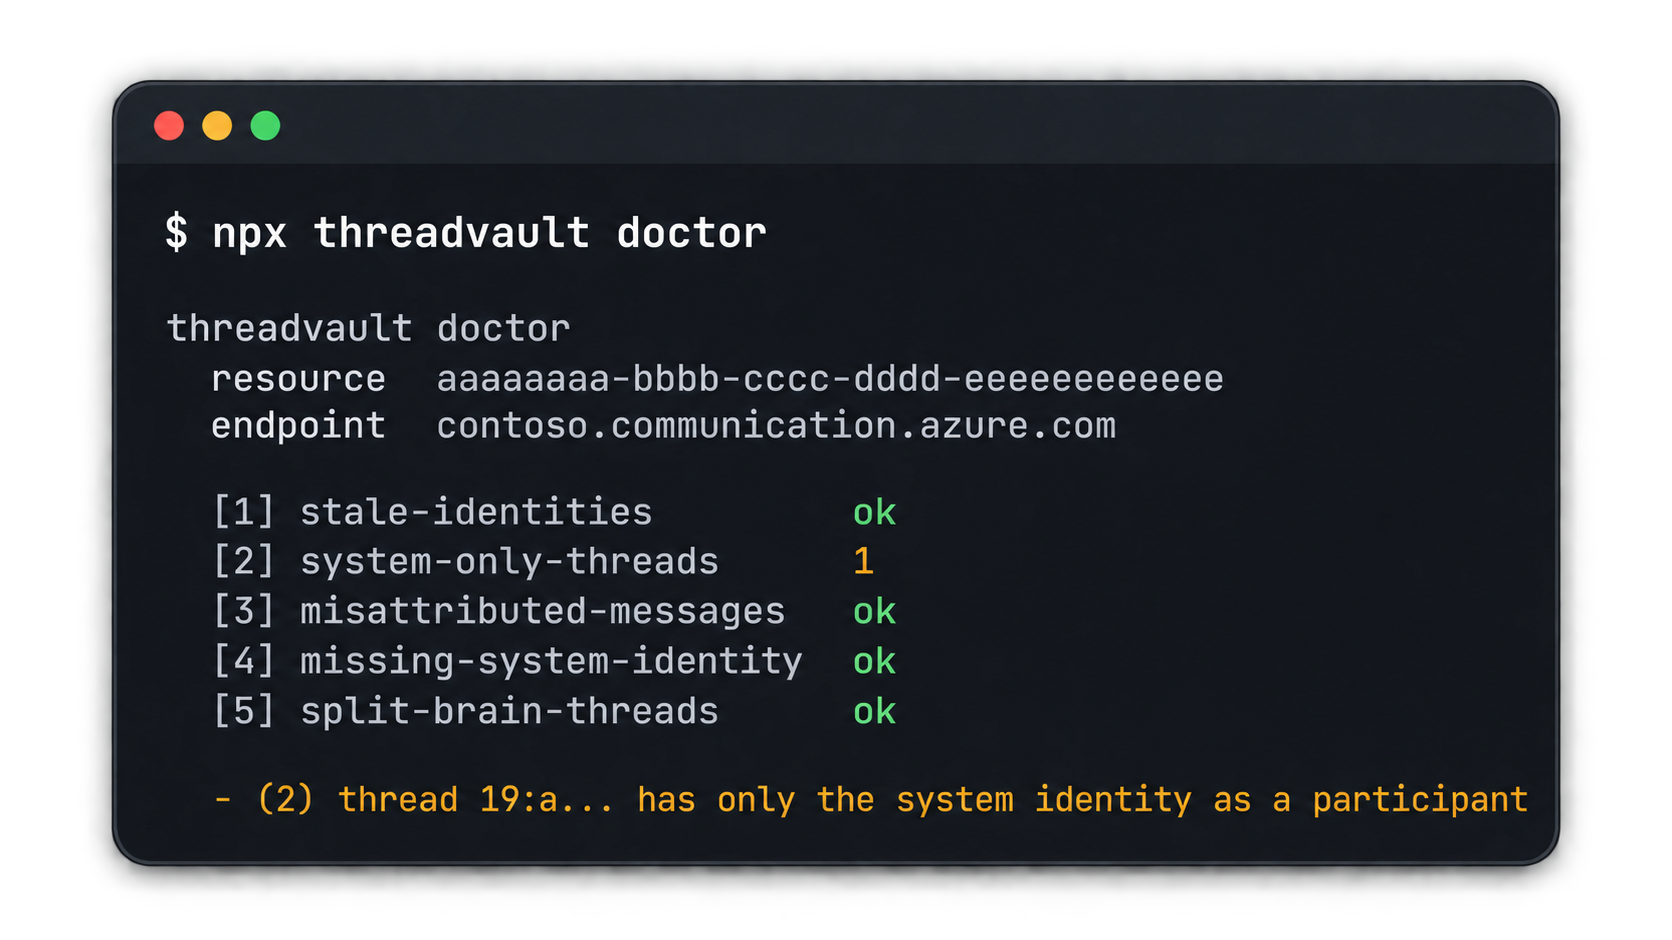
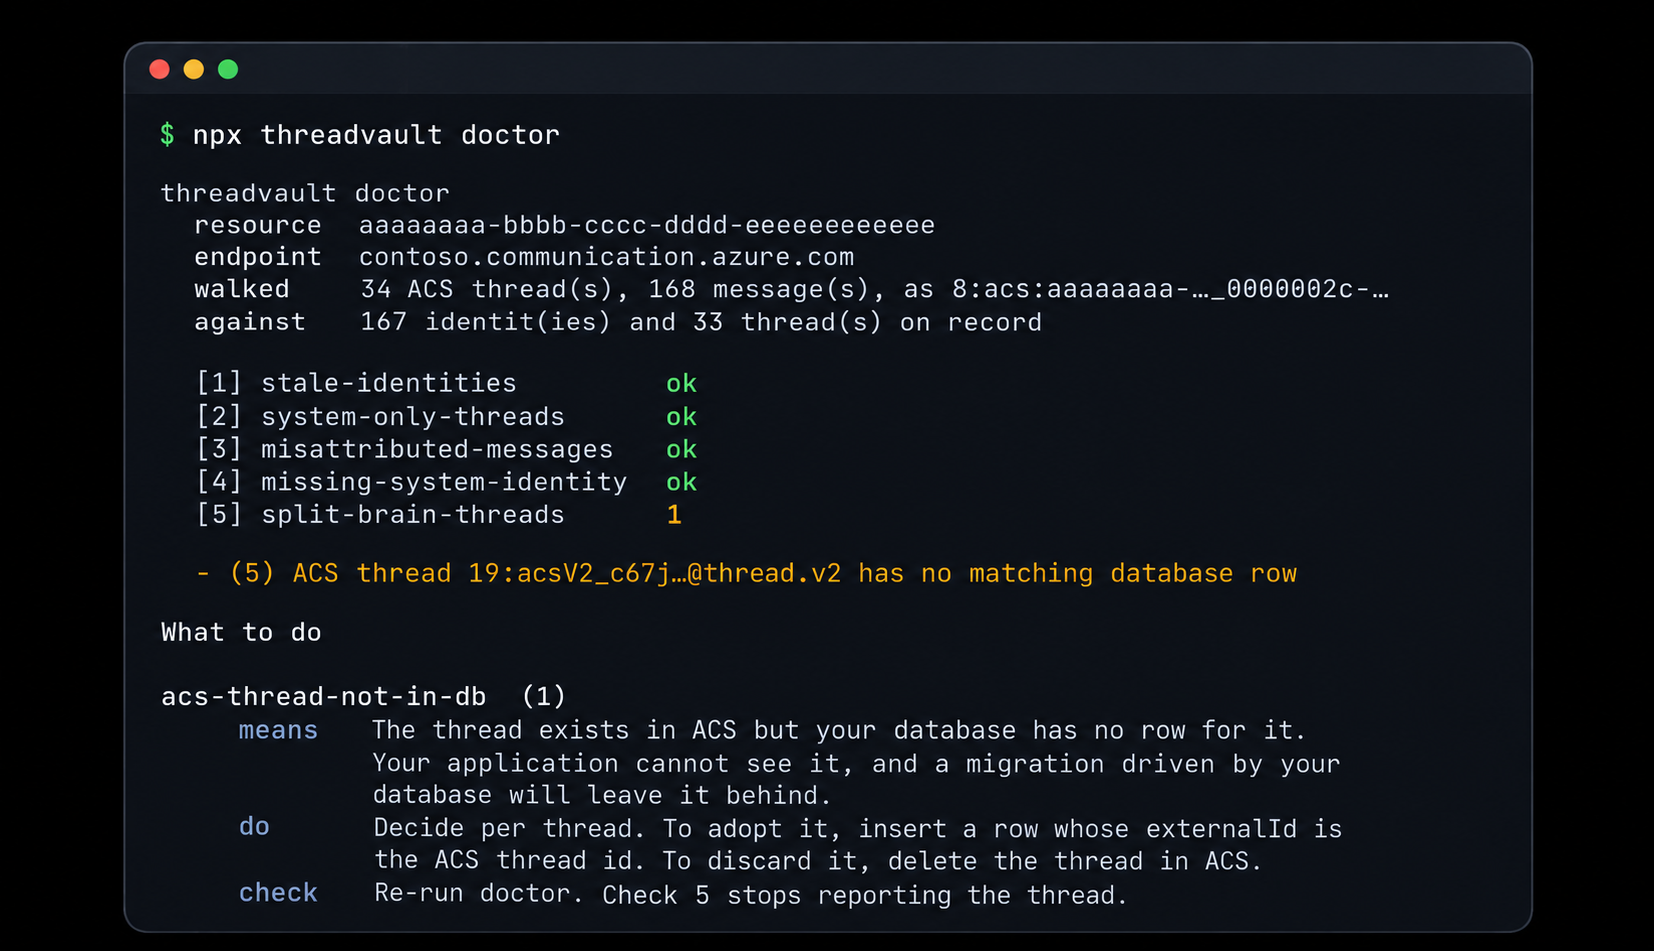
docs: refresh the doctor screenshot for what doctor now prints (#75)
The image predated both the scope lines added in 0.5.0 and the
remediation section added in 0.7.0, so the most looked-at picture in the
README showed a report two releases behind and undersold the tool.

Its alt text was wrong in a way that matters more: it described check 2
firing on a system-only thread, where the new capture shows check 5 and
an ACS thread with no database row. Anyone reading with a screen reader
was getting a different report from everyone else.

diff --git a/README.md b/README.md
@@ -49,7 +49,7 @@ npx threadvault doctor
 ```
 
 <p align="center">
-  <img src="https://raw.githubusercontent.com/Het101/threadvault/main/docs/assets/doctor-output.png" alt="threadvault doctor output: five named checks, four clean, one reporting a thread whose only participant is the system identity" width="760">
+  <img src="https://raw.githubusercontent.com/Het101/threadvault/main/docs/assets/doctor-output.png" alt="threadvault doctor output: how much was walked and against what, then five named checks with four clean and one reporting an ACS thread that has no matching database row, then a What to do section explaining what that means, what to do about it and how to confirm it worked" width="760">
 </p>
 
 Or keep it around:
